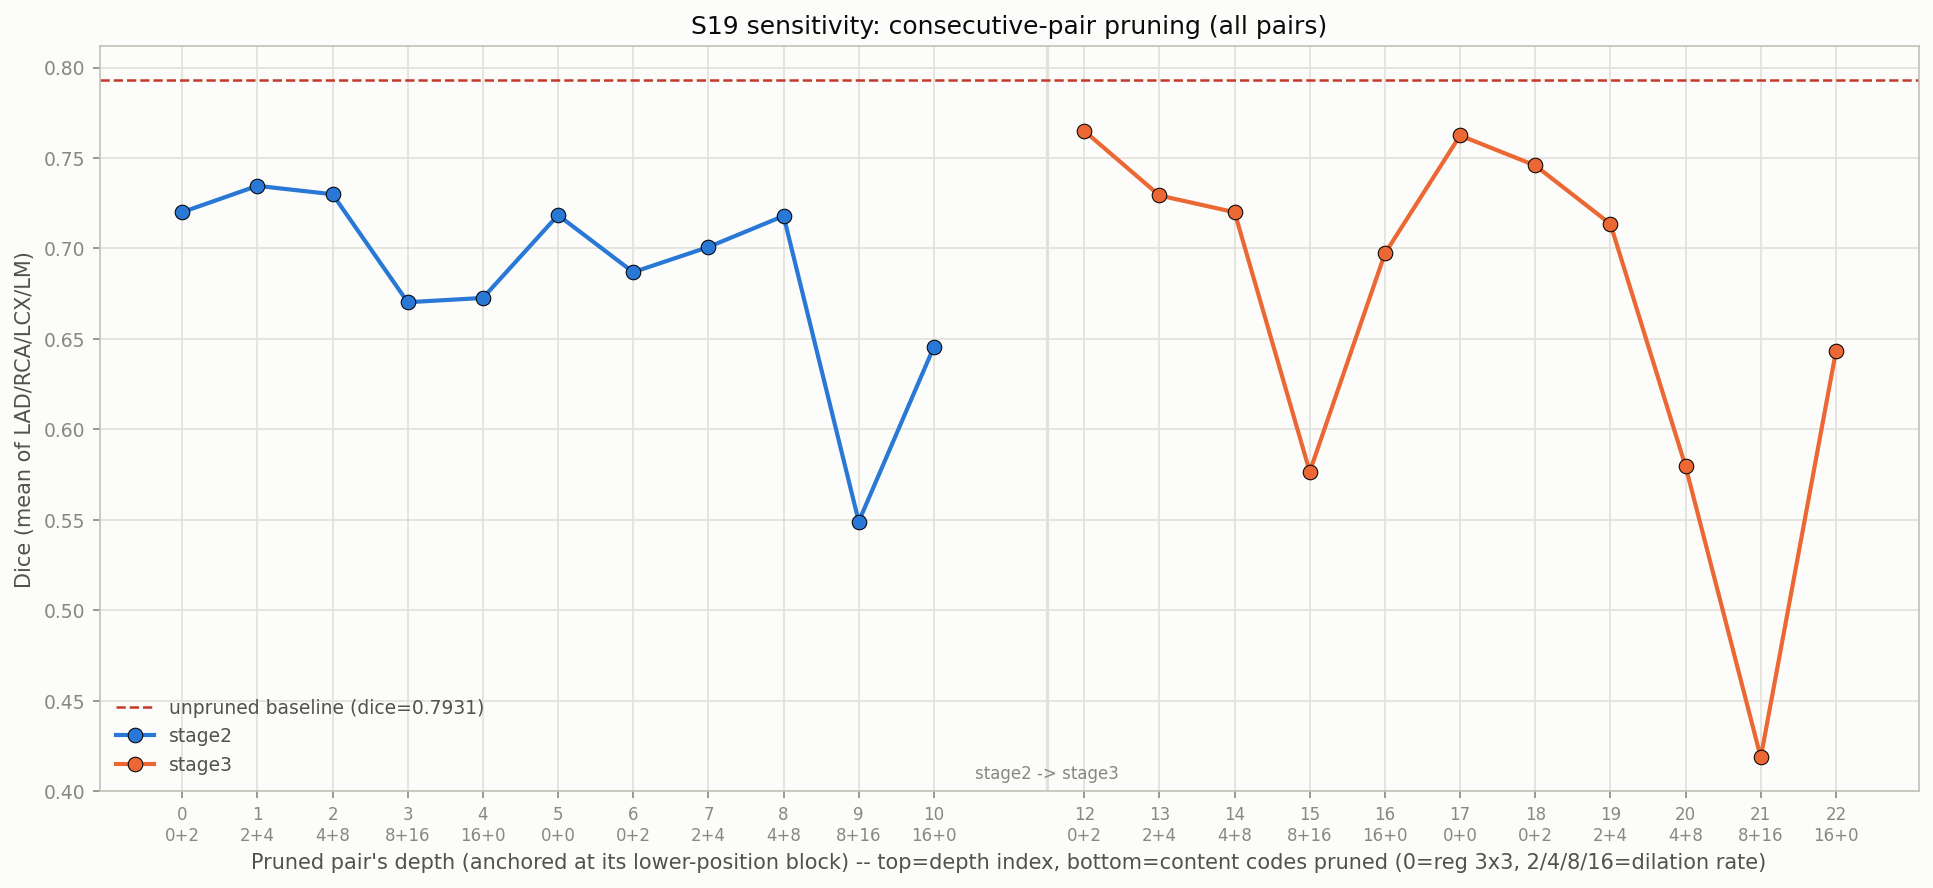
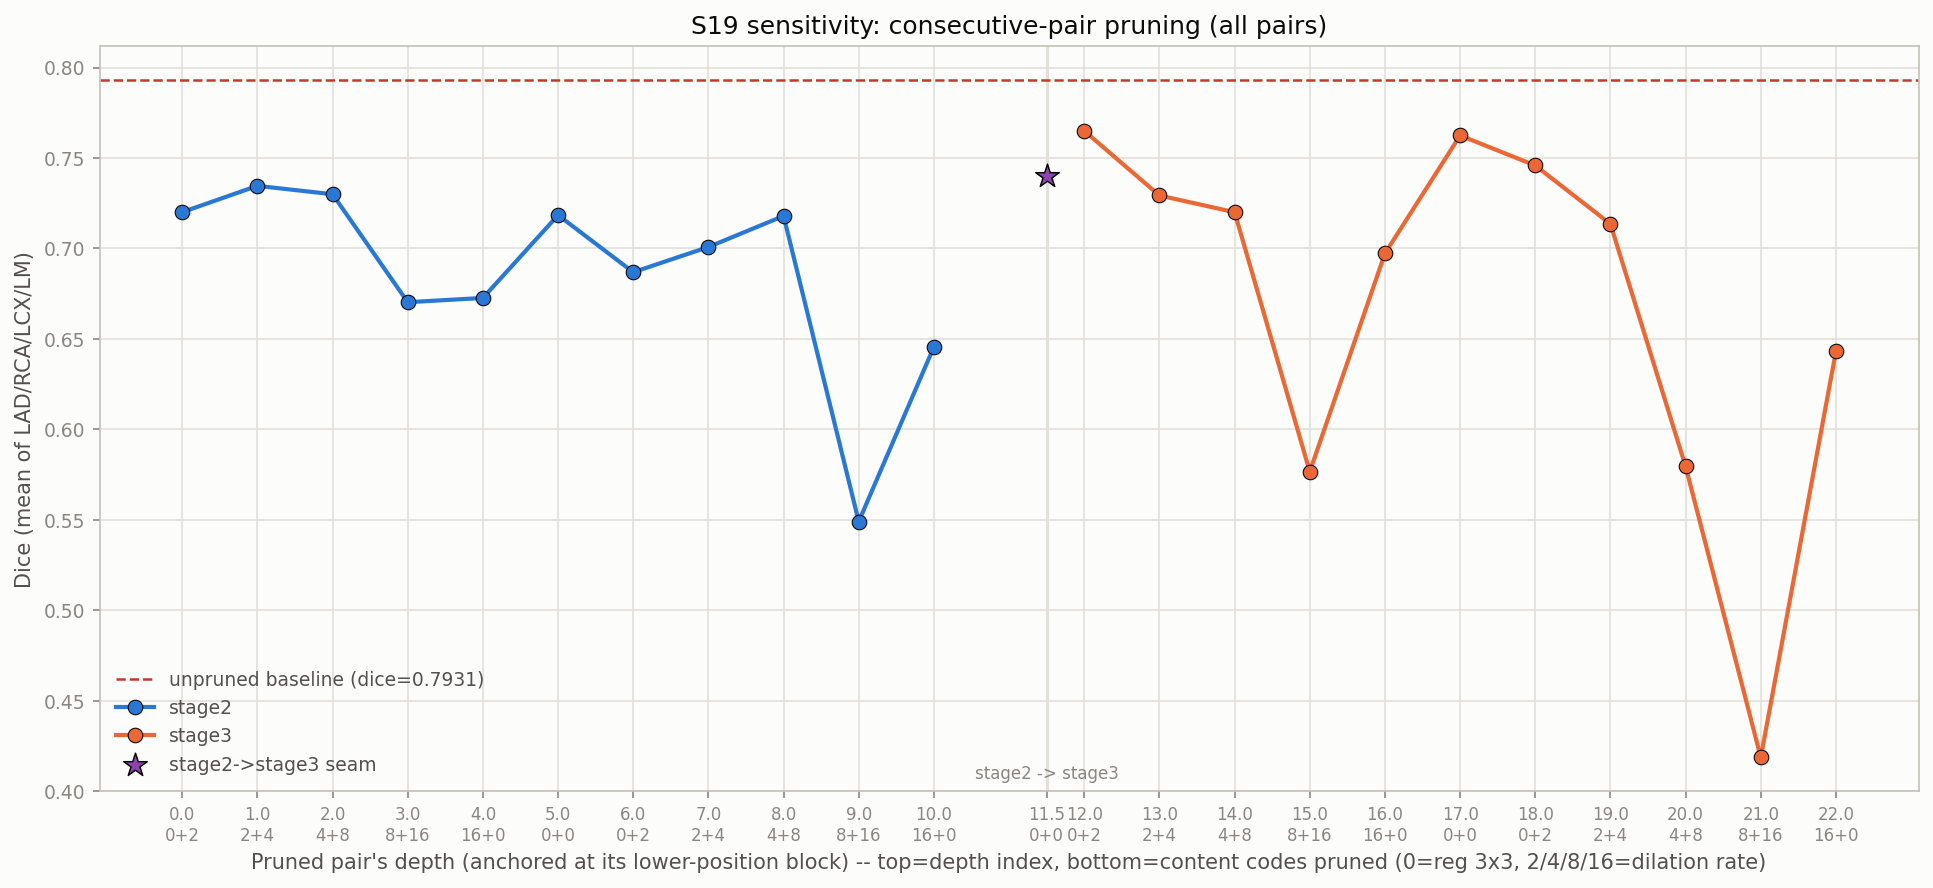
Add cross-stage seam pruning pair to S19's sensitivity sweep
New config: stage2.11 + stage3.0 pruned together -- the one real forward-
pass-adjacent pair that straddles the stage2/stage3 boundary itself (S16's
own merge_reg_boundary architecture change targeted this exact seam, here
as a post-hoc ablation on S19's trained checkpoint instead of a redesign).

dice=0.7399 (-0.053 from baseline) -- a moderate drop, similar magnitude
to the within-stage "0+0" pair (stage.5+stage.6, the doubled mid-reg),
notably milder than the d=8+16 pairs' collapse.

plot_pruning_sensitivity.py: added SEAM_RE + a distinct star marker at the
stage2/3 boundary depth on the consecutive-pairs plot, with its own legend
entry ("stage2->stage3 seam") since it doesn't belong to either stage's
own line. Also fixed a real bug this surfaced: pd.concat-ing an empty
seam_data DataFrame (object dtype on unpopulated columns) against a
populated numeric-depth frame broke matplotlib's tick locator for models
with no seam row (S8-ReLU) -- now only concatenated when non-empty.

diff --git a/compression/plot_pruning_sensitivity.py b/compression/plot_pruning_sensitivity.py
@@ -65,6 +65,14 @@ STAGE_COLORS = {"stage2": "#2a78d6", "stage3": "#eb6834"}
 
 INDIVIDUAL_RE = re.compile(r"^stage([23])_(\d+)$")
 PAIR_RE = re.compile(r"^stage([23])_(\d+)_(\d+)_(consec|skip)$")
+# The one real forward-pass-adjacent pair that crosses the stage2/stage3
+# boundary itself -- stage2's own trailing slot immediately followed by
+# stage3's own leading slot (the exact seam S16's merge_reg_boundary
+# architecture change targeted, here as a post-hoc ablation instead of a
+# redesign). Named "seam_<kind>" rather than "stage2_..._stage3_..." since
+# it doesn't belong to either stage's own within-stage PAIR_RE naming.
+SEAM_RE = re.compile(r"^seam_(consec|skip)$")
+SEAM_COLOR = "#8e44ad"
 
 # Per-model config: prefix (results_pruning.csv's config_name prefix to
 # filter on), the model's own real trained FP32 dice (unpruned baseline,
@@ -214,10 +222,23 @@ def _plot_pairs(df: pd.DataFrame, cfg: dict, kind: str, out_name: str, title: st
         depth = _depth(stage, min(a, b), n_slots)
         content_label = f"{position_label[a]}+{position_label[b]}"
         records.append((stage, depth, content_label, row["dice"]))
-    if not records:
+    # The cross-stage seam pair (stage2's own last slot + stage3's own
+    # first slot) doesn't belong to either stage's PAIR_RE naming -- lives
+    # right at the stage2/3 boundary depth, plotted as its own marker
+    # rather than folded into either line.
+    seam_records = []
+    for _, row in df.iterrows():
+        m = SEAM_RE.match(row["suffix"])
+        if not m or m.group(1) != kind:
+            continue
+        depth = n_slots - 0.5
+        content_label = f"{position_label[n_slots - 1]}+{position_label[0]}"
+        seam_records.append((depth, content_label, row["dice"]))
+    if not records and not seam_records:
         print(f"[{cfg['title_prefix']}] No {kind}-pair pruning rows found yet -- skipping.")
         return
     data = pd.DataFrame(records, columns=["stage", "depth", "content", "dice"])
+    seam_data = pd.DataFrame(seam_records, columns=["depth", "content", "dice"])
 
     fig, ax = plt.subplots(figsize=(13, 6), facecolor=SURFACE)
     _style_axes(ax)
@@ -229,12 +250,18 @@ def _plot_pairs(df: pd.DataFrame, cfg: dict, kind: str, out_name: str, title: st
         ax.plot(subset["depth"], subset["dice"], color=color, linewidth=2, marker="o",
                  markersize=7, markeredgecolor="black", markeredgewidth=0.5, zorder=3,
                  label=stage)
+    if not seam_data.empty:
+        ax.scatter(seam_data["depth"], seam_data["dice"], color=SEAM_COLOR, s=140, zorder=4,
+                   marker="*", edgecolors="black", linewidths=0.7, label="stage2->stage3 seam")
     if (data["stage"] == "stage2").any() and (data["stage"] == "stage3").any():
         boundary = n_slots - 0.5
         ax.axvline(boundary, color=GRID, linewidth=1.5, zorder=1)
         ax.annotate("stage2 -> stage3", (boundary, ax.get_ylim()[0]), color=MUTED, fontsize=8,
                     ha="center", va="bottom", xytext=(0, 4), textcoords="offset points")
-    all_rows = data.sort_values("depth")[["depth", "content"]].drop_duplicates()
+    pair_frames = [data[["depth", "content"]]]
+    if not seam_data.empty:
+        pair_frames.append(seam_data[["depth", "content"]])
+    all_rows = pd.concat(pair_frames, ignore_index=True).sort_values("depth").drop_duplicates()
     ax.set_xticks(all_rows["depth"])
     ax.set_xticklabels([f"{d}\n{c}" for d, c in zip(all_rows["depth"], all_rows["content"])], fontsize=8)
     ax.set_xlabel("Pruned pair's depth (anchored at its lower-position block) -- "
@@ -246,7 +273,7 @@ def _plot_pairs(df: pd.DataFrame, cfg: dict, kind: str, out_name: str, title: st
     out_path = out_dir / out_name
     fig.savefig(out_path, dpi=150, bbox_inches="tight", facecolor=SURFACE)
     plt.close(fig)
-    print(f"Wrote {out_path} ({len(data)} points)")
+    print(f"Wrote {out_path} ({len(data) + len(seam_data)} points, {len(seam_data)} seam)")
 
 
 def main() -> int:
